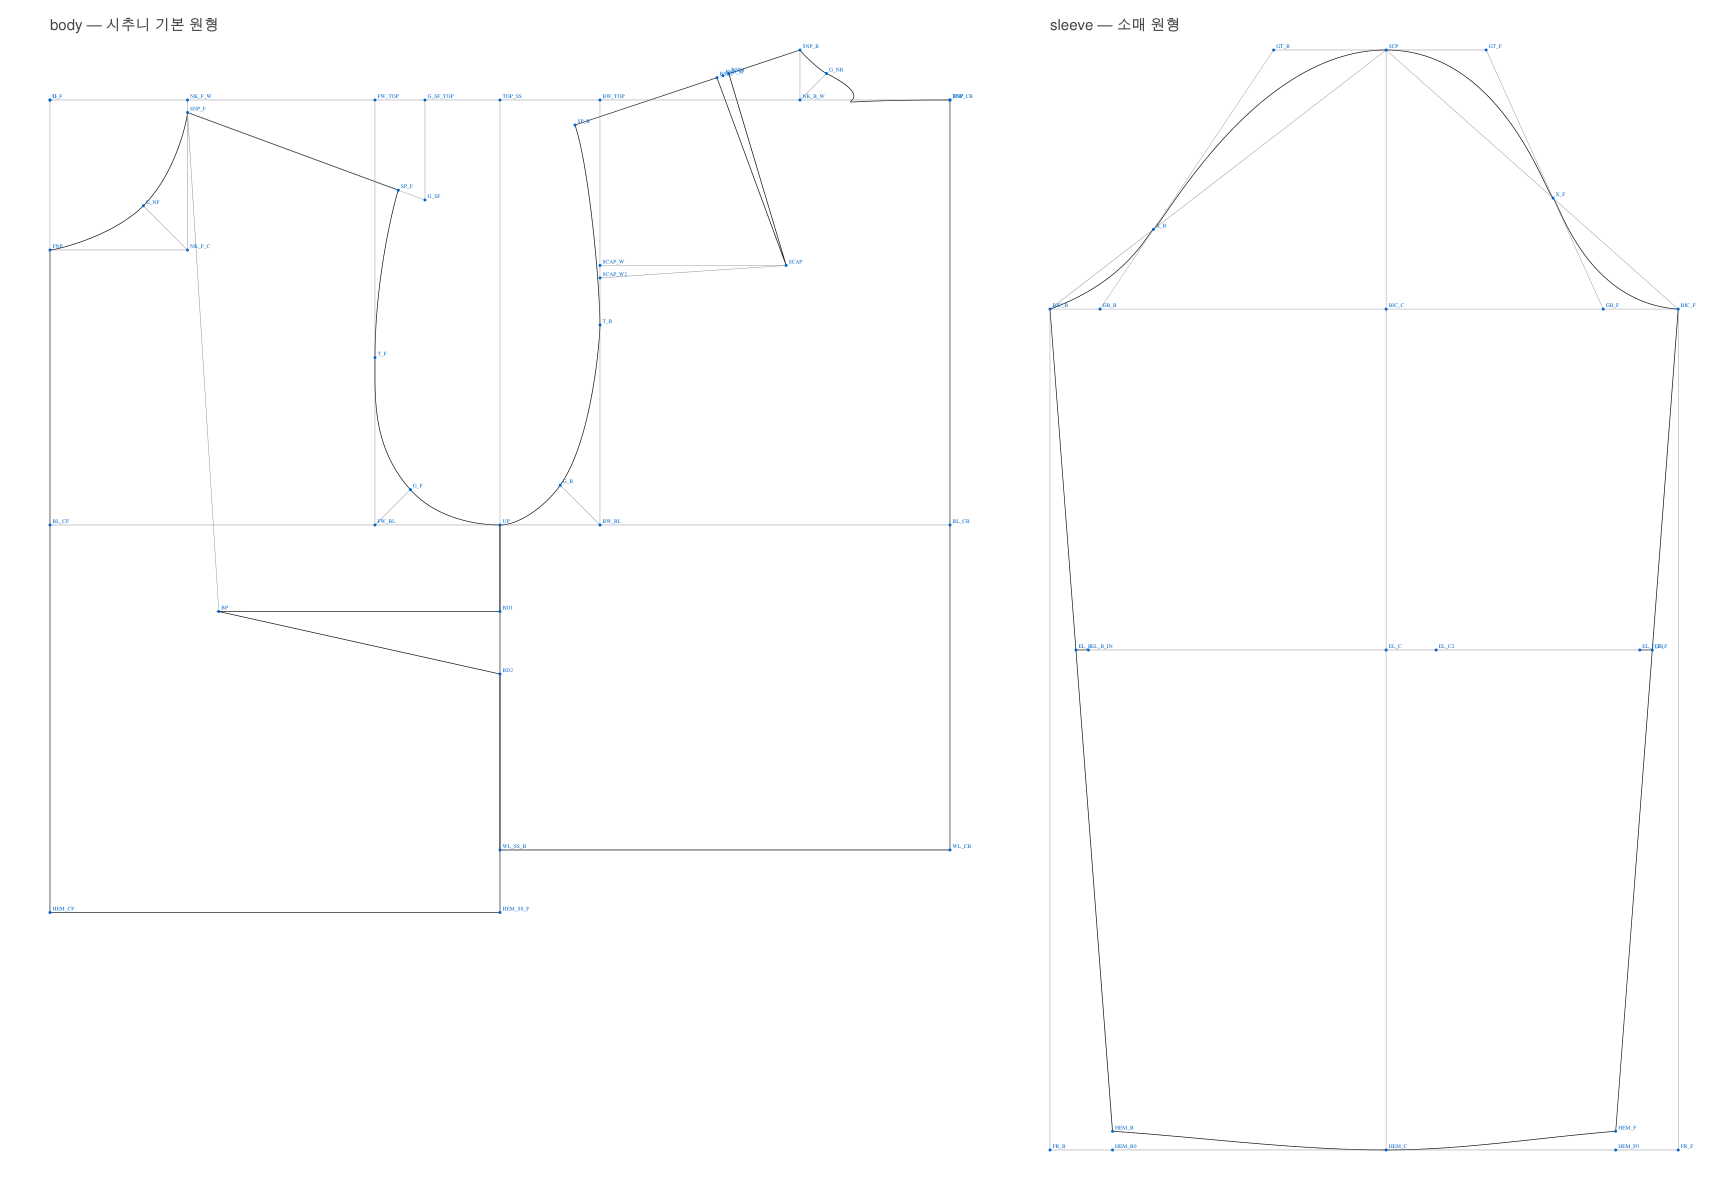
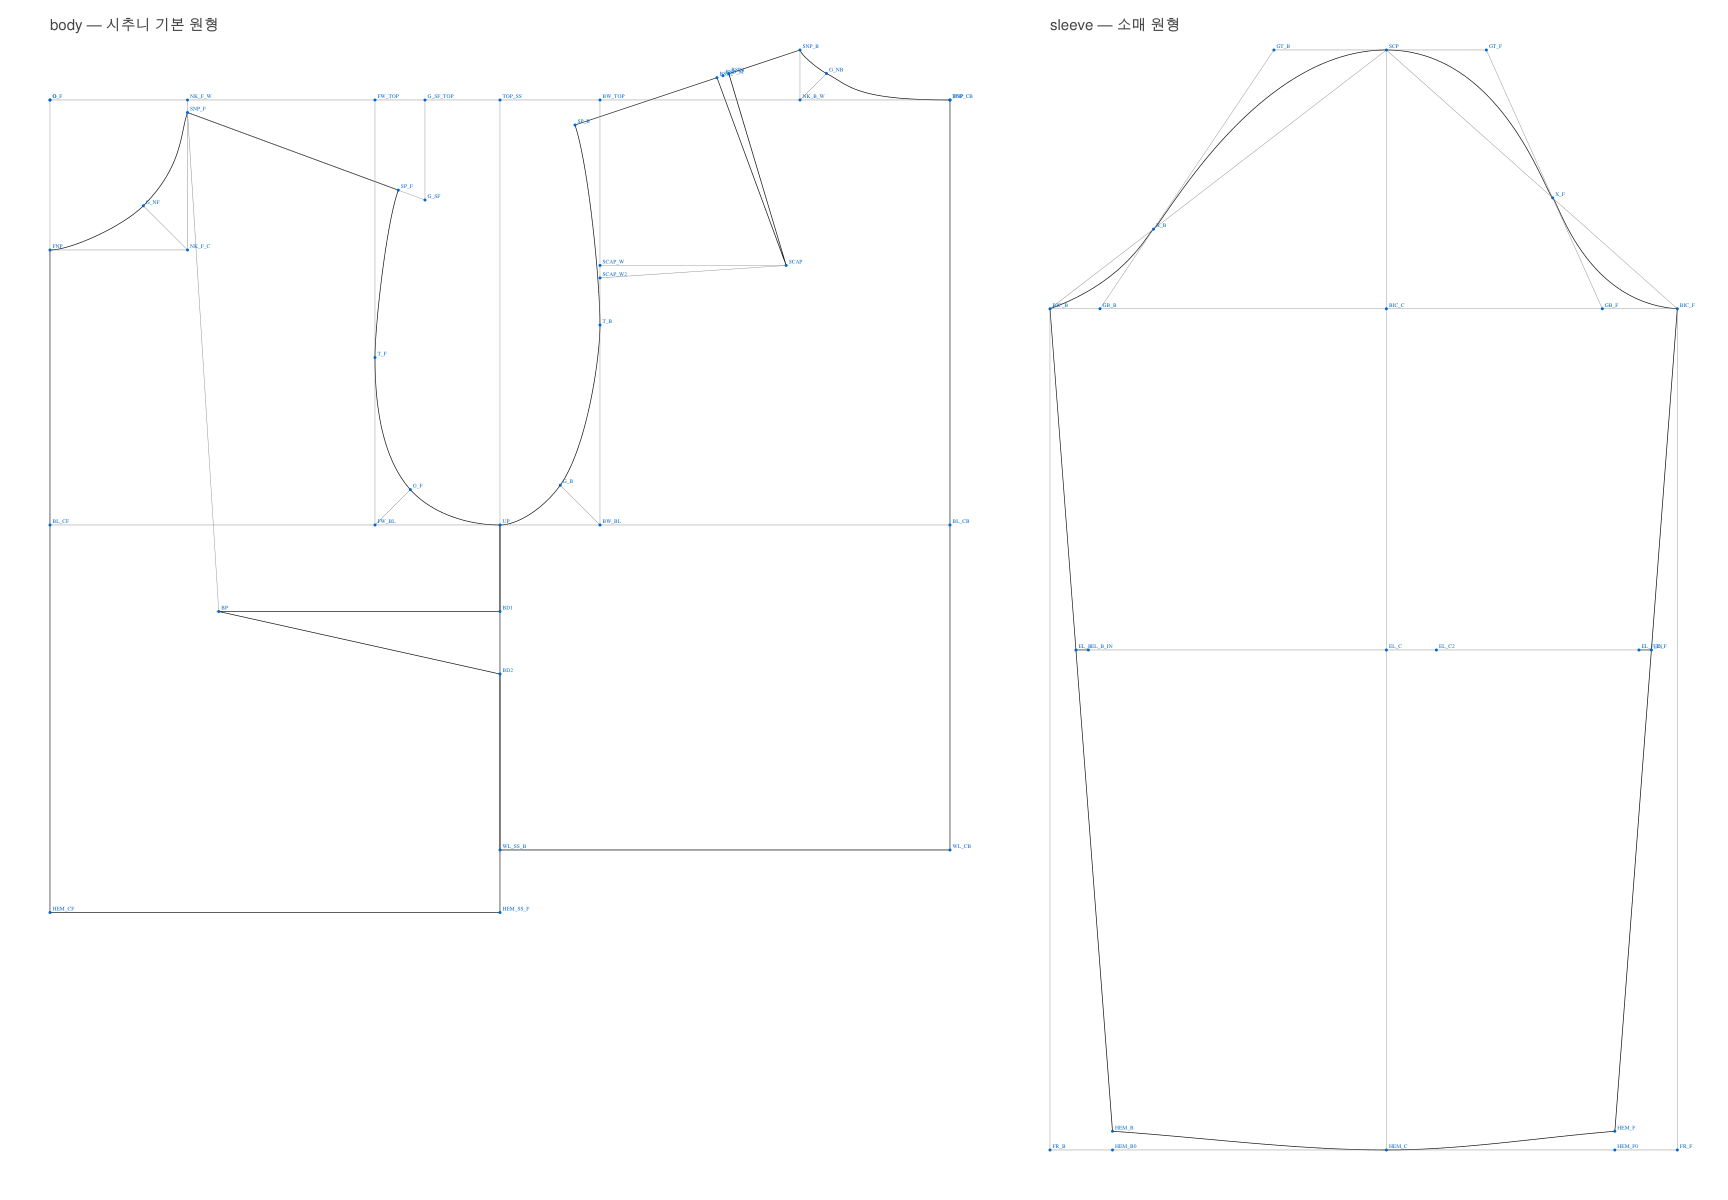
목선 곡선 수정: 이세 표시에 오염된 핸들 맞춤 제거, 앞목선 접선을 어깨선 직각으로
곡선 핸들 맞춤에서 1.5" 미만의 짧은 표시(뒤목 이세 호 등)를 제외하고 핸들
하한을 0.2 로 올려 끝점에서 꺾여 보이지 않게 한다. 앞목선은 옆목점에서
어깨선에 직각으로 나가게 바꾼다. 기본·무다트 원형 핸들 재맞춤.

Claude-Session: https://claude.ai/code/session_01BTGURSN7CBNWrynVskcNog

Changed region(s): [[0.7812, 0.2467, 0.8125, 0.2775], [0.6562, 0.0, 0.6875, 0.0308]]

diff --git a/patterncad/geometry.py b/patterncad/geometry.py
@@ -168,7 +168,7 @@ def bezier_from_tangents(p0: Pt, t0: Pt, p3: Pt, t3: Pt, h0: float, h3: float) -
     return Bezier(p0, p0 + t0.unit() * (h0 * chord), p3 - t3.unit() * (h3 * chord), p3)
 
 
-def fit_handles(p0: Pt, t0: Pt, p3: Pt, t3: Pt, samples: list[Pt], iterations: int = 5) -> tuple[float, float]:
+def fit_handles(p0: Pt, t0: Pt, p3: Pt, t3: Pt, samples: list[Pt], iterations: int = 5, lo: float = 0.05) -> tuple[float, float]:
     """끝점과 접선 방향을 고정하고, 표본점들에 가장 가까운 핸들 길이 비율(h0, h3)을 최소제곱으로 구한다.
     표본은 p0 → p3 순서로 놓인 폴리라인이라고 본다. 매개변수 u 는 처음엔 누적 현 길이로 잡고,
     맞춘 곡선 위의 최근접점으로 다시 잡기를 반복한다."""
@@ -217,7 +217,7 @@ def fit_handles(p0: Pt, t0: Pt, p3: Pt, t3: Pt, samples: list[Pt], iterations: i
         grid = bezier_from_tangents(p0, t0, p3, t3, h0, h3).sample(160)
         return sum(min(g.dist(s) for g in grid) ** 2 for s in samples)
 
-    lo = 0.05  # 핸들이 음수가 되면 끝점에서 꺾여 나가므로 하한을 둔다
+    # lo: 핸들 하한. 음수가 되면 끝점에서 꺾여 나가고, 너무 짧아도 꺾여 보이므로 하한을 둔다
     h0, h3 = max(lo, h[0]), max(lo, h[1])
     best = objective(h0, h3)
     step = 0.1

diff --git a/tools/verify_block.py b/tools/verify_block.py
@@ -85,8 +85,11 @@ def deviation(line_pts: list[Pt], polys: list[list[Pt]]) -> tuple[float, float]:
     return max(ds), sum(ds) / len(ds)
 
 
-def fit_curve_handles(res, polys, tol=0.3):
+def fit_curve_handles(res, polys, tol=0.3, lo=0.2, min_len=1.5):
     """곡선 선마다 구간별 핸들 길이를 원본 폴리라인에 맞춘다. {선이름: [[h0,h3], ...]}"""
+    from patterncad.geometry import polyline_length
+
+    polys = [pl for pl in polys if polyline_length(pl) >= min_len]  # 짧은 표시(이세 호 등)는 뺀다
     pts_all = all_points(polys)
     result = {}
     for line in res.lines:
@@ -111,7 +114,7 @@ def fit_curve_handles(res, polys, tol=0.3):
                 samples.sort(key=lambda s: s[0])
                 if len(samples) < 4:
                     break
-                h = fit_handles(p0, t0, p3, t3, [p0] + [s[1] for s in samples] + [p3])
+                h = fit_handles(p0, t0, p3, t3, [p0] + [s[1] for s in samples] + [p3], lo=lo)
                 from patterncad.geometry import bezier_from_tangents
 
                 cur = bezier_from_tangents(p0, t0, p3, t3, h[0], h[1])
